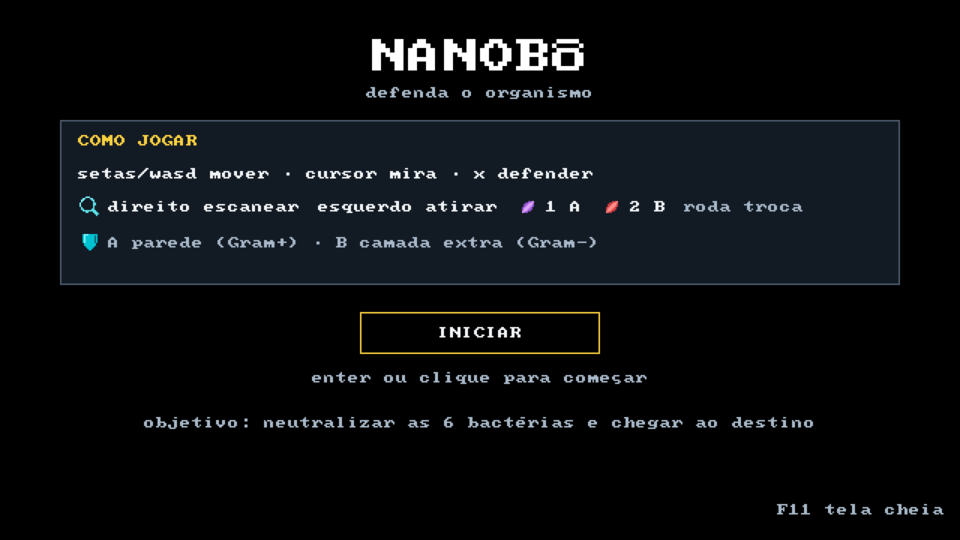
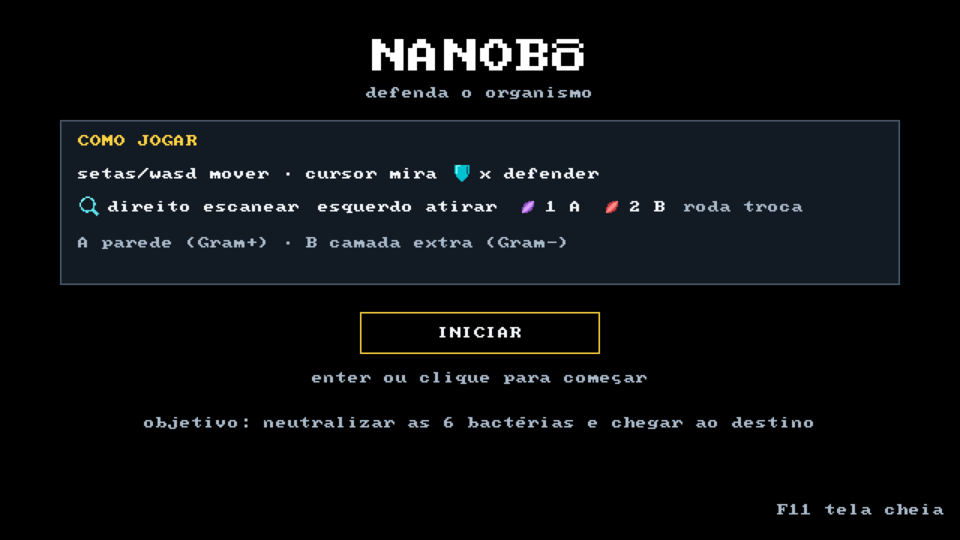
arrumei o escudo do menu e a mira fora da fase

Changed region(s): [[0.0625, 0.4148, 0.625, 0.4741], [0.4688, 0.2963, 0.625, 0.3556]]

diff --git a/src/main.c b/src/main.c
@@ -745,7 +745,10 @@ void draw_menu()
 
     // controles da fase: teclado move e defende, mouse mira, atira e escaneia (#198)
     y = panel_y + 32.0f;
-    al_draw_text(font, UI_TEXT, col_x, y, 0, "setas/wasd mover · cursor mira · x defender");
+    al_draw_text(font, UI_TEXT, col_x, y, 0, "setas/wasd mover · cursor mira");
+    x = col_x + (float)al_get_text_width(font, "setas/wasd mover · cursor mira") + 8.0f;
+    al_draw_bitmap(defense_icon, x, y - 4.0f, 0);
+    al_draw_text(font, UI_TEXT, x + 20.0f, y, 0, "x defender");
 
     y = panel_y + 54.0f;
     x = col_x;
@@ -772,8 +775,7 @@ void draw_menu()
 
     // a regra que liga a estrutura ao modulo, ensinada uma vez (#3, #105)
     y = panel_y + 78.0f;
-    al_draw_bitmap(defense_icon, col_x, y - 4.0f, 0);
-    al_draw_text(font, UI_DIM, col_x + 20.0f, y, 0,
+    al_draw_text(font, UI_DIM, col_x, y, 0,
         "A parede (Gram+) · B camada extra (Gram-)");
 
     draw_buttons(buttons, count);
@@ -1074,7 +1076,8 @@ void draw_game()
     aim_x = to_logical_x(mouse_x);
     aim_y = to_logical_y(mouse_y);
 
-    if (aim_x >= 0.0f && aim_x < (float)SCREEN_W && aim_y >= 0.0f && aim_y < (float)PLAY_H)
+    if (game_get_scene() == GAME_SCENE_GAME && aim_x >= 0.0f && aim_x < (float)SCREEN_W
+        && aim_y >= 0.0f && aim_y < (float)PLAY_H)
     {
         al_draw_circle(aim_x, aim_y, 5.0f, UI_CYAN, 1.0f);
         al_draw_line(aim_x - 9.0f, aim_y + 0.5f, aim_x - 3.0f, aim_y + 0.5f, UI_CYAN, 1.0f);
@@ -1457,8 +1460,8 @@ void handle_game_click(int button, float lx, float ly)
     float wx;
     float wy;
 
-    // clique no painel do HUD nao e acao de mundo
-    if (ly < 0.0f || ly >= (float)PLAY_H)
+    // clique no painel do HUD e na barra preta da janela nao e acao de mundo
+    if (lx < 0.0f || lx >= (float)SCREEN_W || ly < 0.0f || ly >= (float)PLAY_H)
     {
         return;
     }

diff --git a/docs/game-design/textos-do-jogo.md b/docs/game-design/textos-do-jogo.md
@@ -28,9 +28,9 @@
 | CT-02 | menu, linha 2 | `direito escanear` / `esquerdo atirar` / `1 A` / `2 B` / `roda troca` | 16 / 15 / 3 / 3 / 10 | RF-12 |
 | CT-03 | menu, linha 3 | `A parede (Gram+) · B camada extra (Gram-)` | 41 | spec, "Módulo A e B" |
 | CT-04 | HUD | letra `A` ou `B` ao lado do ícone do módulo | 1 | #198 |
-| CT-05 | painel do scanner, sem alvo | `chegue perto e clique com o botão direito` | 42 | #198 |
-| CT-06 | painel do scanner, alvo neutralizado | `chegue perto de outro alvo e clique com o botão direito` | 57 | #198 |
-| CT-07 | painel do scanner, dica de ação | `botão direito: escanear` / `botão direito: escanear de novo` | 23 / 30 | #198 |
-| CT-08 | painel do scanner, próxima camada | `botão direito: revelar a próxima camada` | 40 | #198 |
+| CT-05 | painel do scanner, sem alvo | `chegue perto e clique com o botão direito` | 41 | #198 |
+| CT-06 | painel do scanner, alvo neutralizado | `chegue perto de outro alvo e clique com o botão direito` | 55 | #198 |
+| CT-07 | painel do scanner, dica de ação | `botão direito: escanear` / `botão direito: escanear de novo` | 23 / 31 | #198 |
+| CT-08 | painel do scanner, próxima camada | `botão direito: revelar a próxima camada` | 39 | #198 |
 
 **Limite:** a fonte embutida é 8×8, então o painel aceita ~70 caracteres por linha (640 px menos margens). Nenhuma linha acima passa de 57 caracteres.
